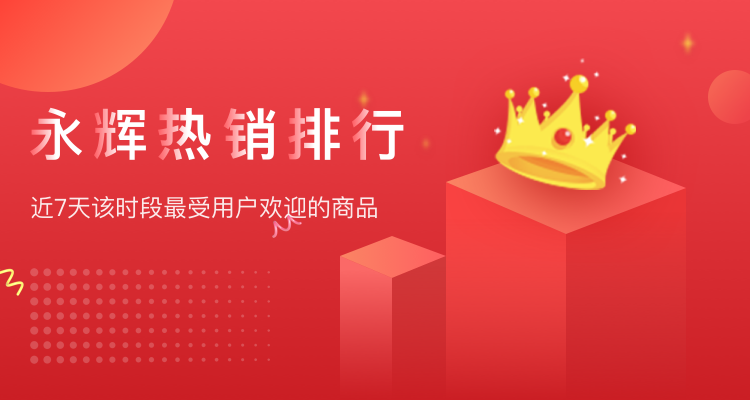
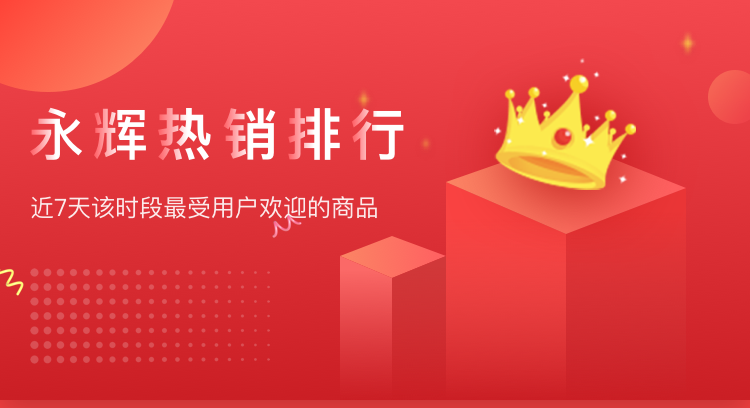
update 样式

diff --git a/src/pages/HotSaleBoard/components/Tab.tsx b/src/pages/HotSaleBoard/components/Tab.tsx
@@ -8,8 +8,11 @@ import {
   Animated,
   Easing,
   Dimensions,
+  ImageBackground,
 } from 'react-native'
 import sumBy from 'lodash/sumBy'
+import memoizeOne from 'memoize-one'
+import isDeepEqual from 'lodash/isEqual'
 
 interface Props {
   data: {
@@ -24,13 +27,38 @@ interface State {
   itemLayoutMap: {
     [tabKey: string]: { width: number }
   }
+  indicatorWidth: number
+  indicatorLeft: number
 }
 
 const windowWidth = Dimensions.get('window').width
 
+const indicatorPosCalculator = memoizeOne(layouts => {
+  const currentTabLayout = layouts.slice(-1)[0]
+  if (!currentTabLayout) return { width: 0, left: 0 }
+
+  const indicatorWidth = currentTabLayout.width * 0.5
+  const tabLayoutsBeforeCurrent = layouts.slice(0, -1)
+  if (!tabLayoutsBeforeCurrent.every(ele => !!ele.width))
+    return { width: 0, left: 0 }
+
+  const indicatorLeft =
+    sumBy(tabLayoutsBeforeCurrent, layout => layout.width + layout.x * 2) +
+    currentTabLayout.x +
+    currentTabLayout.width / 2 -
+    indicatorWidth * 0.5
+
+  return {
+    width: indicatorWidth,
+    left: indicatorLeft,
+  }
+}, isDeepEqual)
+
 export default class Tab extends React.PureComponent<Props, State> {
   state = {
     itemLayoutMap: {},
+    indicatorWidth: 0,
+    indicatorLeft: 0,
   }
 
   scrollViewRef = React.createRef<ScrollView>()
@@ -38,6 +66,7 @@ export default class Tab extends React.PureComponent<Props, State> {
   cachedTabLabelLayout = {}
 
   onTabLabelLayout = (tabKey, { nativeEvent: { layout } }) => {
+    console.log(tabKey)
     this.cachedTabLabelLayout[tabKey] = layout
     if (this.props.data.every(ele => !!this.cachedTabLabelLayout[ele.key])) {
       this.setState({ itemLayoutMap: this.cachedTabLabelLayout })
@@ -45,80 +74,84 @@ export default class Tab extends React.PureComponent<Props, State> {
   }
 
   componentDidUpdate() {
-    const { data, currentTab } = this.props
-    const { itemLayoutMap } = this.state
-    const currentTabIdx = data.findIndex(tab => tab.key === currentTab)
-    const indicatorLeft =
-      sumBy(
-        data.slice(0, currentTabIdx).map(ele => itemLayoutMap[ele.key]),
-        layout => (layout ? layout.width + layout.x * 2 : 0)
-      ) +
-      (itemLayoutMap[currentTab] || { x: 0 }).x +
-      (itemLayoutMap[currentTab] || { width: 0 }).width / 2
+    const { indicatorLeft, indicatorWidth } = this.state
+    if (!indicatorWidth) return
 
-    this.scrollViewRef.current.scrollTo({
-      x: indicatorLeft > windowWidth / 2 ? indicatorLeft - windowWidth / 2 : 0,
-    })
+    const scrollToX = Math.max(
+      indicatorLeft + indicatorWidth / 2 - windowWidth / 2,
+      0
+    )
+    this.scrollViewRef.current.scrollTo({ x: scrollToX, animated: true })
+  }
+
+  static getDerivedStateFromProps(props, state) {
+    console.log(props, state)
+    const { data, currentTab } = props
+    const { itemLayoutMap } = state
+    const currentTabIdx = data.findIndex(tab => tab.key === currentTab)
+    const tabLayouts = data
+      .slice(0, currentTabIdx + 1)
+      .map(ele => itemLayoutMap[ele.key])
+    console.log('--->>>>', tabLayouts)
+    const indicatorPos = indicatorPosCalculator(tabLayouts)
+
+    console.log(indicatorPos)
+    return indicatorPos.width && indicatorPos.left
+      ? { indicatorWidth: indicatorPos.width, indicatorLeft: indicatorPos.left }
+      : null
+  }
+
+  renderTabs = () => {
+    const { data, onTabChange } = this.props
+    return data.map(({ key, label }) => (
+      <TouchableOpacity
+        activeOpacity={0.95}
+        key={key}
+        onPress={() => onTabChange(key)}
+      >
+        <View style={styles.tabItemBox}>
+          <Text
+            style={styles.tabItem}
+            onLayout={e => this.onTabLabelLayout(key, e)}
+          >
+            {label}
+          </Text>
+        </View>
+      </TouchableOpacity>
+    ))
   }
 
   render() {
-    const { data, currentTab, onTabChange } = this.props
-    const { itemLayoutMap } = this.state
-
-    const currentTabIdx = data.findIndex(tab => tab.key === currentTab)
-    const indicatorWidth =
-      (itemLayoutMap[currentTab] || { width: 0 }).width * 0.5
-    const indicatorLeft =
-      sumBy(
-        data.slice(0, currentTabIdx).map(ele => itemLayoutMap[ele.key]),
-        layout => (layout ? layout.width + layout.x * 2 : 0)
-      ) +
-      (itemLayoutMap[currentTab] || { x: 0 }).x +
-      indicatorWidth * 0.5
-
-    const indicatorAnimatedL = Animated.timing(
-      new Animated.Value(indicatorLeft),
-      {
-        toValue: indicatorLeft,
-        duration: 150,
-        easing: Easing.in(Easing.linear),
-      }
-    ).start()
+    const { data, onTabChange } = this.props
+    const { indicatorWidth, indicatorLeft } = this.state
 
     return (
-      <ScrollView
-        style={styles.container}
-        horizontal
-        automaticallyAdjustContentInsets
-        showsHorizontalScrollIndicator={false}
-        ref={this.scrollViewRef}
-      >
-        {data.map(({ key, label }) => (
-          <TouchableOpacity
-            activeOpacity={0.95}
-            key={key}
-            onPress={() => onTabChange(key)}
+      <View style={styles.container}>
+        <ImageBackground
+          style={{ width: '100%', height: 35.2941 }}
+          source={require('@img/hot-sale-tab-bg.png')}
+          resizeMode="cover"
+        >
+          <ScrollView
+            style={styles.scrollView}
+            horizontal
+            automaticallyAdjustContentInsets
+            showsHorizontalScrollIndicator={false}
+            ref={this.scrollViewRef}
           >
-            <View style={styles.tabItemBox}>
-              <Text
-                style={styles.tabItem}
-                onLayout={e => this.onTabLabelLayout(key, e)}
-              >
-                {label}
-              </Text>
-            </View>
-          </TouchableOpacity>
-        ))}
-        <Animated.View
-          style={[
-            styles.indicator,
-            {
-              left: indicatorLeft,
-              width: indicatorWidth,
-            },
-          ]}
-        />
-      </ScrollView>
+            {this.renderTabs()}
+            <Animated.View
+              style={[
+                styles.indicator,
+                {
+                  left: indicatorLeft,
+                  width: indicatorWidth,
+                },
+              ]}
+            />
+          </ScrollView>
+        </ImageBackground>
+      </View>
     )
   }
 }

diff --git a/src/pages/HotSaleBoard/Page.tsx b/src/pages/HotSaleBoard/Page.tsx
@@ -2,7 +2,7 @@
  * @Author: 李华良
  * @Date: 2019-08-21 14:48:31
  * @Last Modified by: 李华良
- * @Last Modified time: 2019-08-29 11:13:50
+ * @Last Modified time: 2019-08-29 19:26:10
  */
 import * as React from 'react'
 import { View, FlatList, Image } from 'react-native'
@@ -124,8 +124,7 @@ export default class Page extends React.Component<Object, State> {
     this.requestProductListUnderTab(key)
   }
 
-  renderFlatItem = ({ item: { component, props } }) =>
-    React.createElement(React.memo(component), props)
+  renderFlatItem = ({ item: { component: Comp, props } }) => <Comp {...props} />
 
   render() {
     const { tabList, tabContentMap, tabLoadingMap, currentTabId } = this.state
@@ -137,7 +136,7 @@ export default class Page extends React.Component<Object, State> {
         props: {
           resizeMode: 'cover',
           source: require('@img/hot-sale-banner.png'),
-          style: { marginBottom: -40, width: '100%' },
+          style: { marginBottom: -35.2941, width: '100%' },
         },
       },
       {

diff --git a/src/pages/Activity/Page.tsx b/src/pages/Activity/Page.tsx
@@ -171,12 +171,13 @@ export default class Page extends React.Component<Props, State> {
         }
       } else if (floor.type === 3) {
         // 商品
-        const component = {
-          1: ProductList,
-          2: ProductGrid,
-          3: ProductGrid,
-          4: ProductSwiper,
-        }[floor.subType]
+        const component =
+          {
+            1: ProductList,
+            2: ProductGrid,
+            3: ProductGrid,
+            4: ProductSwiper,
+          }[floor.subType] || ProductSwiper
         if (component)
           result.push({
             key: floor.id,
@@ -249,8 +250,7 @@ export default class Page extends React.Component<Props, State> {
     return result
   }
 
-  renderFlatItem = ({ item: { component, props } }) =>
-    React.createElement(React.memo(component), props)
+  renderFlatItem = ({ item: { component: Comp, props } }) => <Comp {...props} />
 
   render() {
     const {

diff --git a/src/pages/HotSaleBoard/components/Tab.styles.ts b/src/pages/HotSaleBoard/components/Tab.styles.ts
@@ -1,25 +1,27 @@
 import { StyleSheet } from 'react-native'
 
 export default StyleSheet.create({
-  container: {
-    padding: 3,
+  container: {},
+  scrollView: {
     position: 'relative',
-    marginBottom: 10,
   },
   tabItemBox: {
     paddingHorizontal: 12,
-    paddingVertical: 10,
   },
   tabItem: {
     color: '#FFF',
     fontSize: 14,
     fontWeight: '600',
+    lineHeight: 35.2941,
+    height: 35.2941,
+    textAlignVertical: 'center',
   },
   indicator: {
     position: 'absolute',
     bottom: 0,
     height: 2,
     backgroundColor: '#fff',
+    borderRadius: 2,
     zIndex: 1,
   },
 })

diff --git a/src/pages/Home/Page.tsx b/src/pages/Home/Page.tsx
@@ -327,12 +327,13 @@ class Page extends React.PureComponent<Props, State> {
         }
       } else if (floor.type === 3) {
         // 商品
-        const component = {
-          1: ProductList,
-          2: ProductGrid,
-          3: ProductGrid,
-          4: ProductSwiper,
-        }[floor.subType]
+        const component =
+          {
+            1: ProductList,
+            2: ProductGrid,
+            3: ProductGrid,
+            4: ProductSwiper,
+          }[floor.subType] || ProductSwiper
         if (component)
           result.push({
             key: floor.id,

diff --git a/src/pages/Home/components/TabBar.tsx b/src/pages/Home/components/TabBar.tsx
@@ -98,7 +98,7 @@ export default class TabBar extends React.Component<Props, State> {
       indicatorTranslateX + indicatorWidth / 2 - windowWidth / 2,
       0
     )
-    this.scrollViewRef.getNode().scrollTo({ x: scrollToX, Animated: true })
+    this.scrollViewRef.getNode().scrollTo({ x: scrollToX, animated: true })
   }
 
   onTabTextLayout = (tabKey, { nativeEvent: { layout } }) => {

diff --git a/src/utils/native.ts b/src/utils/native.ts
@@ -34,7 +34,7 @@ export async function navigateTo({ type, uri, params, title }: Navigation) {
   const platformUri = (Platform.OS === 'ios' ? uriArr[0] : uriArr[1]) || ''
 
   const pageType = type
-  const pageUri = platformUri.split('?')[0]
+  const pageUri = platformUri
 
   Log.debug(
     'calling HomeNativeManager.pushToNewPage with arguments',

diff --git a/src/pages/Activity/Page.styles.ts b/src/pages/Activity/Page.styles.ts
@@ -4,7 +4,6 @@ export default StyleSheet.create({
   container: {
     flex: 1,
     position: 'relative',
-    paddingBottom: 60,
   },
   footerBox: {
     position: 'absolute',
